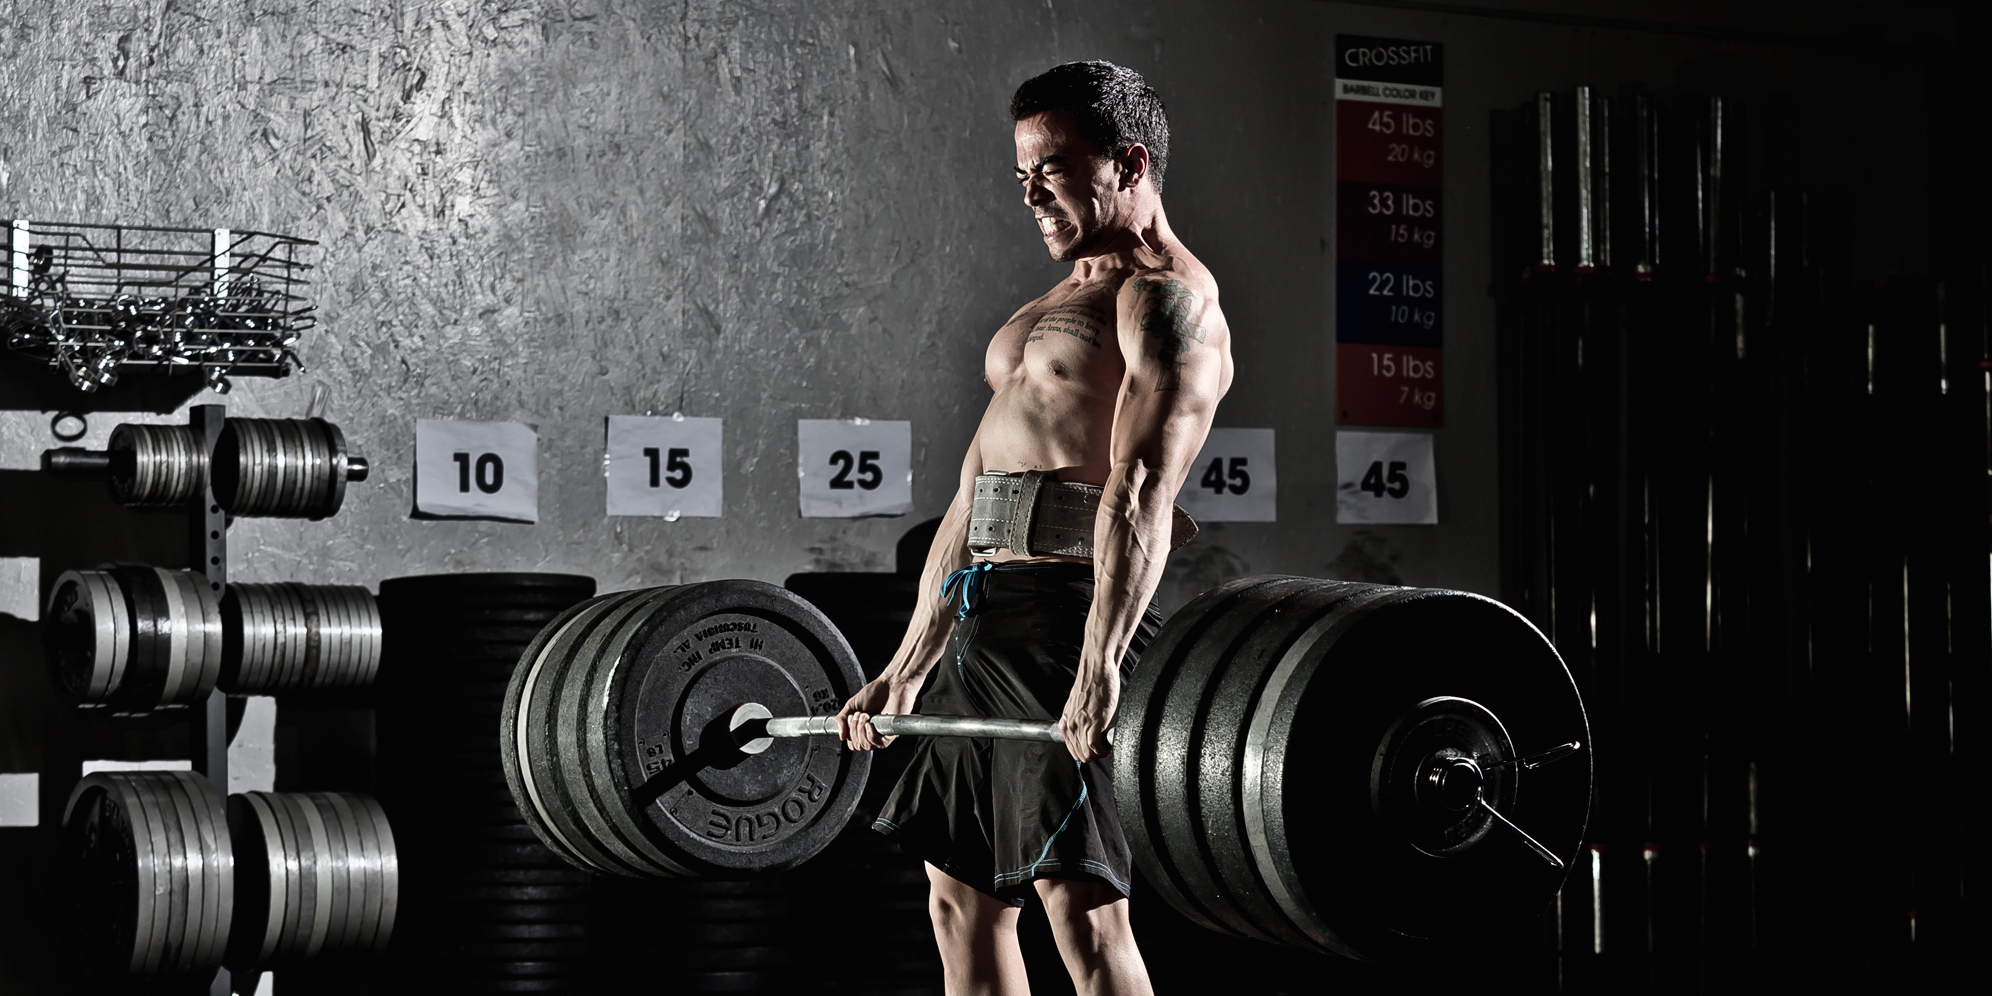
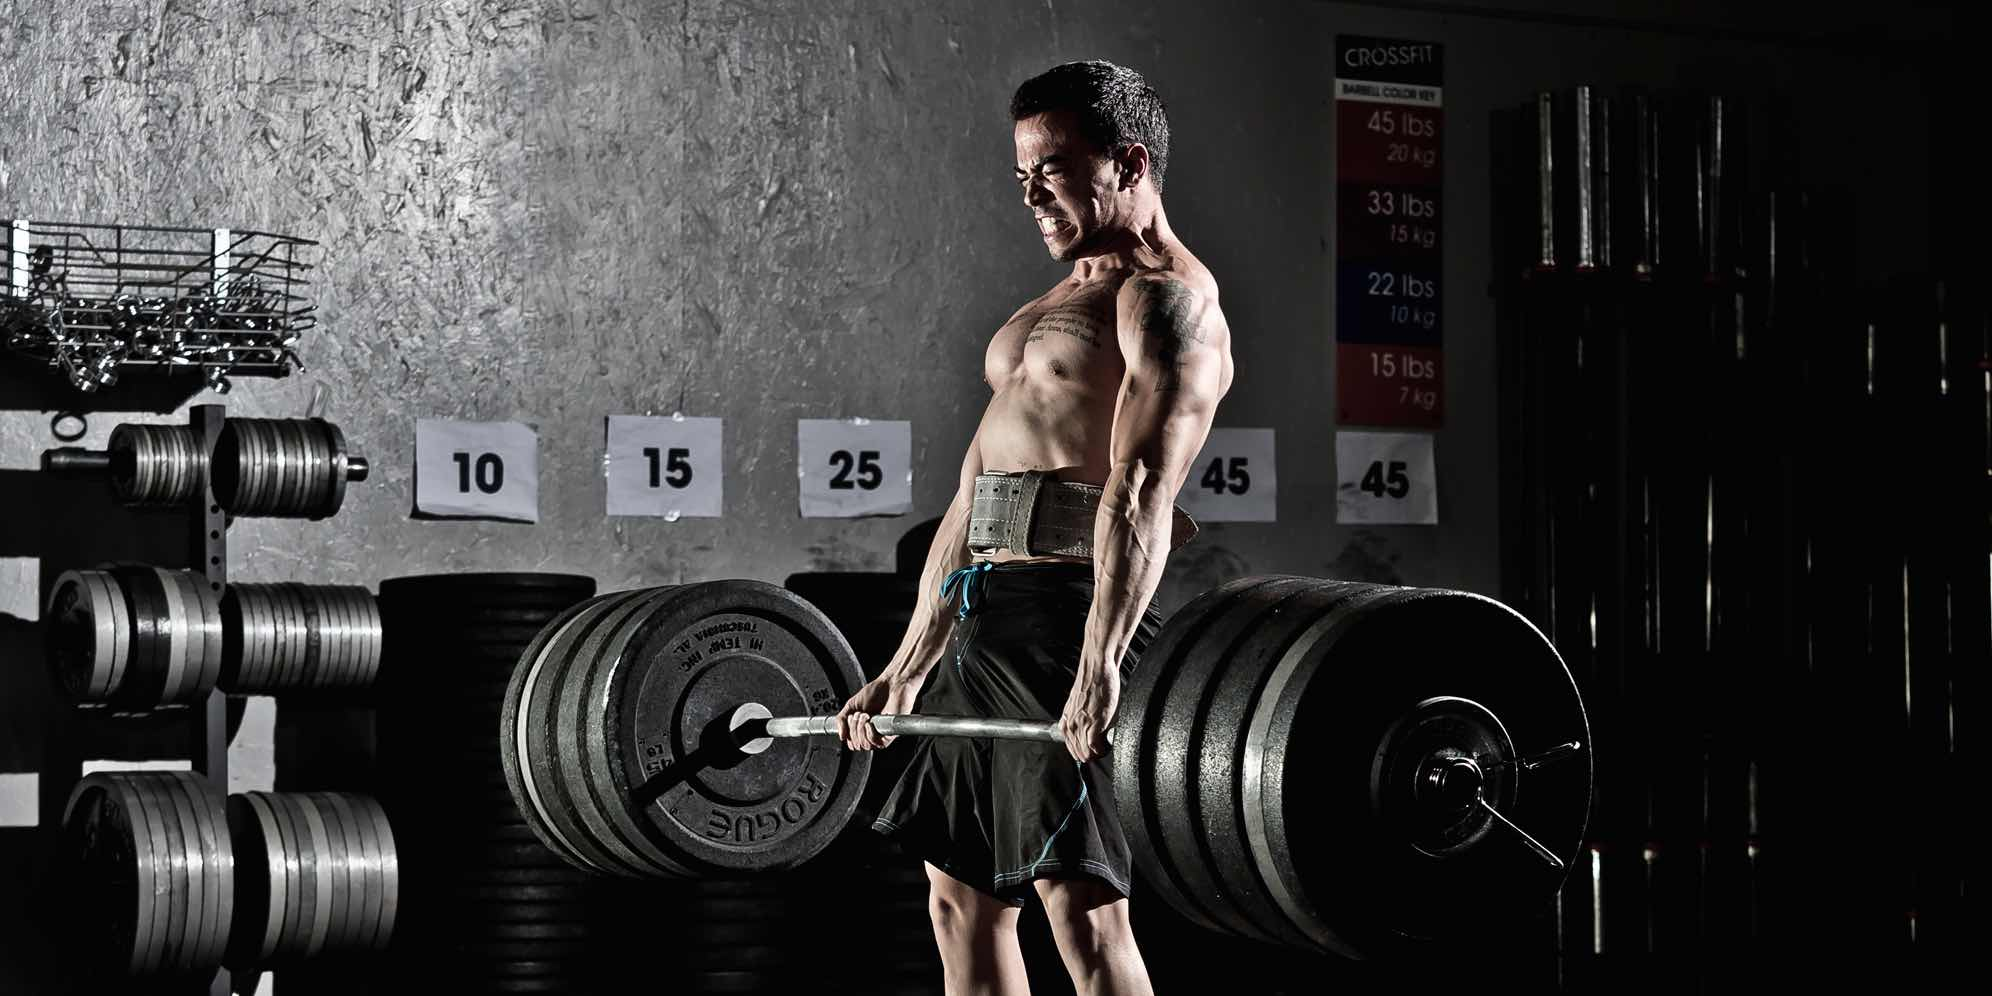
Compressed bg image and changed home bg image
-Compressed background 2
-Changed bg on home page

Changed region(s): [[0.5602, 0.0934, 0.5914, 0.1556], [0.4669, 0.5602, 0.498, 0.5914]]

diff --git a/client/app/public/home/home.html b/client/app/public/home/home.html
@@ -136,6 +136,6 @@
     </div>
   </div>
   <div class="parallax">
-    <img alt="CrossFit" class="responsive" src="assets/background3.jpg">
+    <img alt="CrossFit" class="responsive" src="assets/background1.jpg">
   </div>
 </div>
